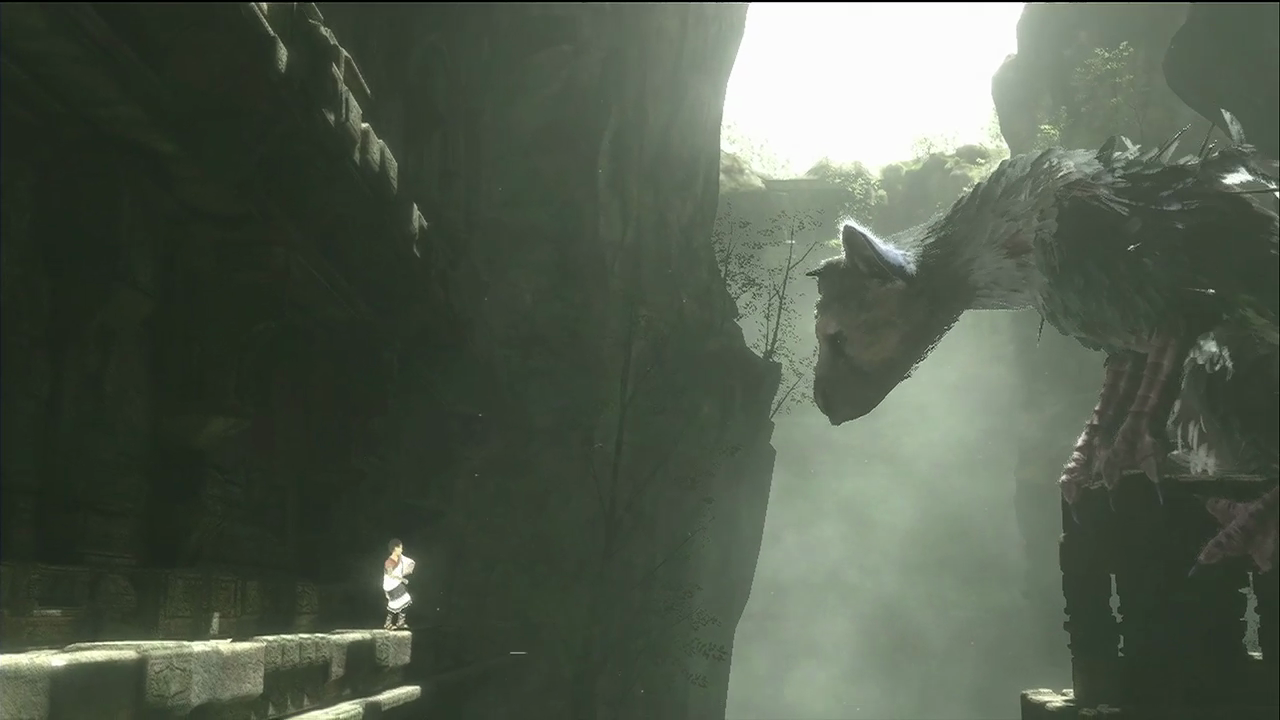
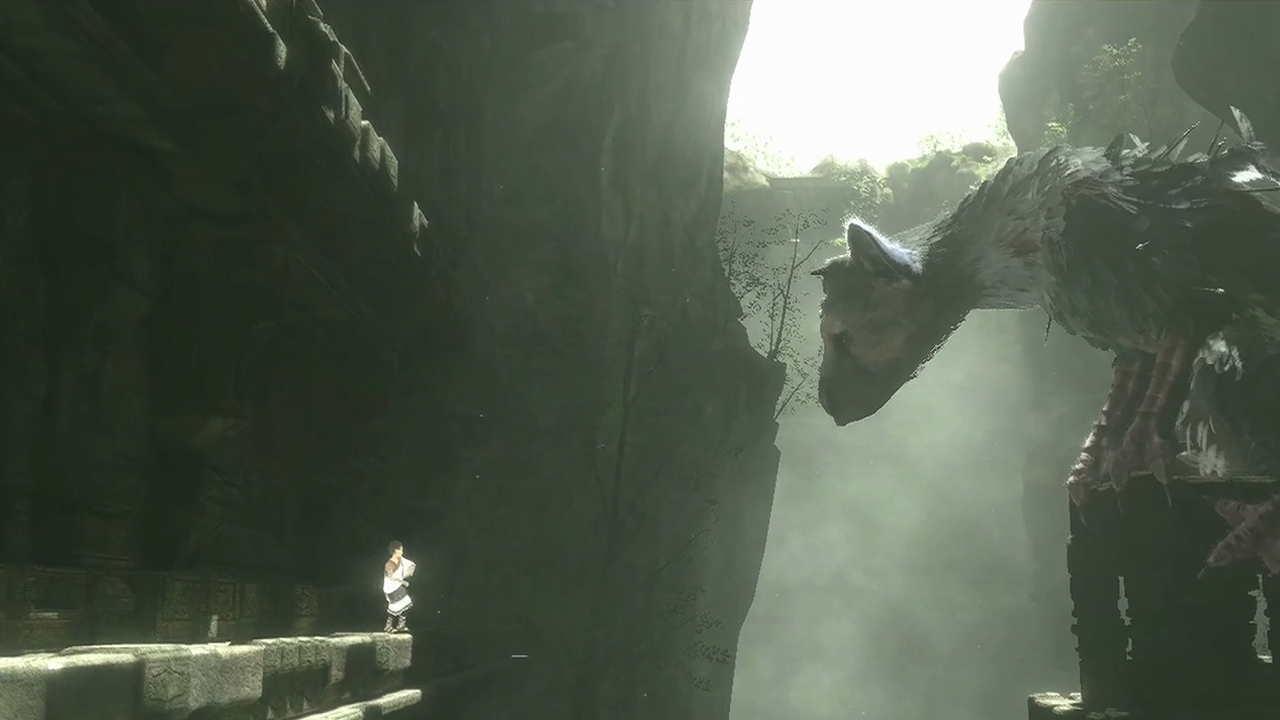
Customizing #controls buttons.

diff --git a/pstv.css b/pstv.css
@@ -8,6 +8,7 @@ html {
 body {
   -webkit-font-smoothing: antialiased;
   -moz-osx-font-smoothing: grayscale;
+  margin: 0;
   padding-top: 1rem;
   font-family: "sst-w01", sans-serif;
   font-size: 1.5rem;
@@ -72,8 +73,8 @@ a, a:hover, a:active, a:visited {
     #pstv > #prototype > header h1.user img.plus {
       max-height: 1.5rem;
       top: .3rem; }
-    #pstv > #prototype > header h1:last-child {
-      text-align: right;
+    #pstv > #prototype > header h1.clock {
+      text-align: center;
       text-indent: 0; }
     #pstv > #prototype > footer h1 {
       flex: 1 0 auto;
@@ -184,15 +185,13 @@ a, a:hover, a:active, a:visited {
   background-image: repeating-linear-gradient(0deg, rgba(255, 255, 255, 0.05), rgba(255, 255, 255, 0.05) 1px, transparent 1px, transparent 1rem), repeating-linear-gradient(-90deg, rgba(255, 255, 255, 0.05), rgba(255, 255, 255, 0.05) 1px, transparent 1px, transparent 1rem); }
 
 .bg-nogrid {
-  /*
-    background: -moz-linear-gradient(-45deg,  #032548 0%, #1a265d 100%);
-    background: -webkit-gradient(linear, left top, right bottom, color-stop(0%,#032548), color-stop(100%,#1a265d));
-    background: -webkit-linear-gradient(-45deg,  #032548 0%,#1a265d 100%);
-    background: -o-linear-gradient(-45deg,  #032548 0%,#1a265d 100%);
-    background: -ms-linear-gradient(-45deg,  #032548 0%,#1a265d 100%);
-    background: linear-gradient(135deg,  #032548 0%,#1a265d 100%);
-    filter: progid:DXImageTransform.Microsoft.gradient( startColorstr='#032548', endColorstr='#1a265d',GradientType=1 );
-  */ }
+  background: -moz-linear-gradient(-45deg, #032548 0%, #1a265d 100%);
+  background: -webkit-gradient(linear, left top, right bottom, color-stop(0%, #032548), color-stop(100%, #1a265d));
+  background: -webkit-linear-gradient(-45deg, #032548 0%, #1a265d 100%);
+  background: -o-linear-gradient(-45deg, #032548 0%, #1a265d 100%);
+  background: -ms-linear-gradient(-45deg, #032548 0%, #1a265d 100%);
+  background: linear-gradient(135deg, rgba(0, 0, 0, 0.2) 0%, rgba(255, 255, 255, 0.2) 100%);
+  filter: progid:DXImageTransform.Microsoft.gradient(startColorstr='#032548', endColorstr='#1a265d', GradientType=1); }
 
 .bg-vita {
   background-image: url("images/vita_homescreen.jpg");
@@ -219,25 +218,22 @@ a, a:hover, a:active, a:visited {
   background-size: 100% 100%; }
 
 .bg-custom {
-  background-image: url("images/bg_tlg.png");
+  background-image: url("images/bg_tlg4.png");
   background-size: 100% 100%;
-  text-shadow: 1px 1px 2px rgba(0, 0, 0, 0.8); }
+  text-shadow: 1px 1px 2px rgba(0, 0, 0, 0.9); }
   .bg-custom > header img {
-    -webkit-filter: drop-shadow(1px 1px 2px rgba(0, 0, 0, 0.8));
-    filter: drop-shadow(1px 1px 2px rgba(0, 0, 0, 0.8)); }
+    -webkit-filter: drop-shadow(1px 1px 2px rgba(0, 0, 0, 0.9));
+    filter: drop-shadow(1px 1px 2px rgba(0, 0, 0, 0.9)); }
 
 #pstv.border-neutral {
   border: 1px solid #333; }
 
 #controls {
-  border: 1px dashed rgba(255, 255, 255, 0.15);
-  color: #ccc;
-  font-size: 1.3rem;
-  font-weight: 700;
-  height: 6rem;
-  margin: 1.5rem auto;
-  overflow: hidden;
-  padding: 0 3rem;
+  background-color: #222;
+  border: 0;
+  border-radius: 5px;
+  margin: 1rem auto;
+  padding: 0 3rem .4rem 3rem;
   position: relative;
   width: 96rem; }
   #controls ul {
@@ -249,11 +245,9 @@ a, a:hover, a:active, a:visited {
     flex-flow: row;
     -webkit-justify-content: space-between;
     justify-content: space-between; }
-  #controls a, #controls a:hover, #controls a:active, #controls a:visited {
-    border-bottom: 1px dotted rgba(255, 255, 255, 0.2); }
 
 .preloader {
-  background-image: url("images/bg_tlg.png"), url("images/psx_ridge_smooth.png"), url("images/psx_ridge_scanlines.png"), url("images/psx_xeno_smooth.png"), url("images/psx_xeno_scanlines.png"), url("images/vita_homescreen.jpg");
+  background-image: url("images/bg_tlg4.png"), url("images/psx_ridge_smooth.png"), url("images/psx_ridge_scanlines.png"), url("images/psx_xeno_smooth.png"), url("images/psx_xeno_scanlines.png"), url("images/vita_homescreen.jpg");
   background-repeat: no-repeat;
   width: 0;
   height: 0;
@@ -261,6 +255,19 @@ a, a:hover, a:active, a:visited {
 
 @media (max-width: 520px) {
   @viewport {
-    width: 960px; } }
+    width: 960px; }
+  #controls ul {
+    -webkit-align-items: center;
+    align-items: center;
+    display: -webkit-flex;
+    display: flex;
+    -webkit-flex-flow: row;
+    flex-flow: row;
+    -webkit-justify-content: space-between;
+    justify-content: space-between;
+    -webkit-flex-flow: row wrap;
+    flex-flow: row wrap; }
+    #controls ul li {
+      width: 33%; } }
 
 /*# sourceMappingURL=pstv.css.map */

diff --git a/pstv.scss b/pstv.scss
@@ -56,6 +56,7 @@ body {
   -webkit-font-smoothing: antialiased;
   -moz-osx-font-smoothing: grayscale;
   //text-shadow: 1px 1px 1px rgba(0, 0, 0, 0.004);
+  margin: 0;
   padding-top: 1rem;
   font-family: $mainFontFamily;
   font-size: 1.5rem;
@@ -148,10 +149,11 @@ a, a:hover, a:active, a:visited {
       h1.trophies {
         //background-image: url("images/icon_trophies.png");
       }
-      h1:last-child {
-        //background-color: lime;
-        text-align: right;
+      h1.clock {
+        //background-color: #999;
+        text-align: center;
         text-indent: 0;
+        //width: 4.5rem;
       }
     }
 
@@ -372,15 +374,15 @@ a, a:hover, a:active, a:visited {
 }
 
 .bg-nogrid {
-/*
-  background: -moz-linear-gradient(-45deg,  #032548 0%, #1a265d 100%);
-  background: -webkit-gradient(linear, left top, right bottom, color-stop(0%,#032548), color-stop(100%,#1a265d));
-  background: -webkit-linear-gradient(-45deg,  #032548 0%,#1a265d 100%);
-  background: -o-linear-gradient(-45deg,  #032548 0%,#1a265d 100%);
-  background: -ms-linear-gradient(-45deg,  #032548 0%,#1a265d 100%);
-  background: linear-gradient(135deg,  #032548 0%,#1a265d 100%);
-  filter: progid:DXImageTransform.Microsoft.gradient( startColorstr='#032548', endColorstr='#1a265d',GradientType=1 );
-*/
+
+  background: -moz-linear-gradient(-45deg, #032548 0%, #1a265d 100%);
+  background: -webkit-gradient(linear, left top, right bottom, color-stop(0%, #032548), color-stop(100%, #1a265d));
+  background: -webkit-linear-gradient(-45deg, #032548 0%, #1a265d 100%);
+  background: -o-linear-gradient(-45deg, #032548 0%, #1a265d 100%);
+  background: -ms-linear-gradient(-45deg, #032548 0%, #1a265d 100%);
+  background: linear-gradient(135deg, rgba(0, 0, 0, .2) 0%, rgba(255, 255, 255, .2) 100%);
+  filter: progid:DXImageTransform.Microsoft.gradient(startColorstr='#032548', endColorstr='#1a265d', GradientType=1);
+
 }
 
 .bg-vita {
@@ -415,14 +417,15 @@ a, a:hover, a:active, a:visited {
 }
 
 .bg-custom {
-  background-image: url("images/bg_tlg.png");
+  background-image: url("images/bg_tlg4.png");
   background-size: 100% 100%;
-  text-shadow: 1px 1px 2px rgba(0, 0, 0, 0.8);
+  text-shadow: 1px 1px 2px rgba(0, 0, 0, 0.9);
 
   > header img {
-    -webkit-filter: drop-shadow(1px 1px 2px rgba(0, 0, 0, 0.8));
-    filter: drop-shadow(1px 1px 2px rgba(0, 0, 0, 0.8));
+    -webkit-filter: drop-shadow(1px 1px 2px rgba(0, 0, 0, 0.9));
+    filter: drop-shadow(1px 1px 2px rgba(0, 0, 0, 0.9));
   }
+
 }
 
 #pstv.border-neutral {
@@ -430,30 +433,22 @@ a, a:hover, a:active, a:visited {
 }
 
 #controls {
-  border: 1px dashed rgba(255, 255, 255, .15);
-  color: #ccc;
-  font-size: 1.3rem;
-  font-weight: 700;
-  height: 6rem;
-  margin: 1.5rem auto;
-  overflow: hidden;
-  padding: 0 3rem;
+  background-color: #222;
+  border: 0;
+  border-radius: 5px;
+  margin: 1rem auto;
+  padding: 0 3rem .4rem 3rem;
   position: relative;
   width: 96rem;
 
   ul {
     @include flex-basic-row;
   }
-
-  a, a:hover, a:active, a:visited {
-    border-bottom: 1px dotted rgba(255, 255, 255, .20);
-  }
-
 }
 
 // Lazy loading for our big background images.
 .preloader {
-  background-image: url("images/bg_tlg.png"), url("images/psx_ridge_smooth.png"), url("images/psx_ridge_scanlines.png"), url("images/psx_xeno_smooth.png"), url("images/psx_xeno_scanlines.png"), url("images/vita_homescreen.jpg");
+  background-image: url("images/bg_tlg4.png"), url("images/psx_ridge_smooth.png"), url("images/psx_ridge_scanlines.png"), url("images/psx_xeno_smooth.png"), url("images/psx_xeno_scanlines.png"), url("images/vita_homescreen.jpg");
   background-repeat: no-repeat;
   width: 0;
   height: 0;
@@ -463,5 +458,17 @@ a, a:hover, a:active, a:visited {
 @media (max-width: 520px) {
   @viewport {
     width: 960px;
+  }
+
+  #controls {
+    ul {
+      @include flex-basic-row;
+      -webkit-flex-flow: row wrap;
+      flex-flow: row wrap;
+
+      li {
+        width: 33%;
+      }
+    }
   }
 }

diff --git a/index.html b/index.html
@@ -14,9 +14,10 @@
     <header>
       <h1 class="system"><img src="images/icon_wifi.png" alt="Wifi"/>PSTV</h1>
       <h1 class="friends"><img src="images/icon_friends.png" alt="Friends"/>3 online</h1>
-      <h1 class="user"><img src="images/icon_avatar.png" alt="User"/>hellogreg<img src="images/icon_plus.png" alt="Plus" class="plus"/></h1>
+      <h1 class="user"><img src="images/icon_avatar.png" alt="User"/>hellogreg<img src="images/icon_plus.png" alt="Plus"
+                                                                                   class="plus"/></h1>
       <h1 class="trophies"><img src="images/icon_trophies.png" alt="Trophies"/>10</h1>
-      <h1 class="clock">6:32 pm</h1>
+      <h1 id="clock" class="clock">6:32 pm</h1>
     </header>
 
     <main>
@@ -138,9 +139,12 @@
     </main>
 
     <footer>
-      <h1 class="marquee">Final Fantasy XII Remastered comes to PlayStation TV this fall...
-        Download The Last Guardian theme today...
-      </h1>
+      <div class="marquee">
+        <div>
+          <h1>Final Fantasy XII Remastered comes to PlayStation TV this fall...&nbsp;&nbsp;
+            Download The Last Guardian theme today... </h1>
+        </div>
+      </div>
       <img src="images/logo_pstv.png" alt="PlayStation TV" class="logo"/>
     </footer>
   </section>
@@ -149,16 +153,16 @@
 
 <div id="controls">
   <ul>
-    <li><a href="#" id="move-apps-left">Left</a></li>
-    <li><a href="#" id="move-apps-right">Right</a></li>
-    <li><a href="#" id="show-grid-15">15px</a></li>
-    <li><a href="#" id="hide-grid">No Grid</a></li>
-    <li><a href="#" id="show-custom">Custom</a></li>
-    <li><a href="#" id="show-vita">Vita</a></li>
-    <li><a href="#" id="show-xeno-scanlines">Xeno Scan</a></li>
-    <li><a href="#" id="show-xeno-smooth">Xeno Smooth</a></li>
-    <li><a href="#" id="show-ridge-scanlines">Ridge Scan</a></li>
-    <li><a href="#" id="show-ridge-smooth">Ridge Smooth</a></li>
+    <li><button id="move-apps-left">Left</button></li>
+    <li><button id="move-apps-right">Right</button></li>
+    <li><button id="show-grid-15">15px</button></li>
+    <li><button id="hide-grid">No Grid</button></li>
+    <li><button id="show-custom">Custom</button></li>
+    <li><button id="show-vita">Vita</button></li>
+    <li><button id="show-xeno-scanlines">Xeno Scan</button></li>
+    <li><button id="show-xeno-smooth">Xeno Smooth</button></li>
+    <li><button id="show-ridge-scanlines">Ridge Scan</button></li>
+    <li><button id="show-ridge-smooth">Ridge Smooth</button></li>
   </ul>
 </div>
 

diff --git a/pstv.js b/pstv.js
@@ -45,13 +45,33 @@
     console.log(m);
   }
 
-  /*
-   function dir(o) {
-   if (o !== undefined) {
-   console.dir(o);
-   }
-   }
-   */
+  function startTime() {
+
+    var d = new Date();
+    var hr = d.getHours();
+    var min = d.getMinutes();
+    if (min < 10) {
+      min = "0" + min;
+    }
+    var ampm = hr < 12 ? "AM" : "PM";
+    if (hr > 12) {
+      hr = hr - 12;
+    }
+    if (hr === 0) {
+      hr = 12;
+    }
+    var date = d.getDate();
+    var month = d.getMonth() + 1;
+    var year = d.getFullYear().toString().slice(-2);
+    var x = document.getElementById("clock");
+    x.innerHTML = month + "/" + date + "/" + year + " " + hr + ":" + min + " " + ampm + "";
+
+    var timer = setTimeout(function () {
+      startTime()
+    }, 5000);
+  }
+
+  startTime();
 
   $controls.addEventListener("click", function (e) {
 
@@ -59,7 +79,6 @@
     e.preventDefault();
     //log("Something within \"pstv\" has been clicked.");
     //log("Source target:" + target);
-    //dir("Source target id:" + target.id);
 
     function swapClass(el, oldClass, newClass) {
       el.classList.remove(oldClass);
